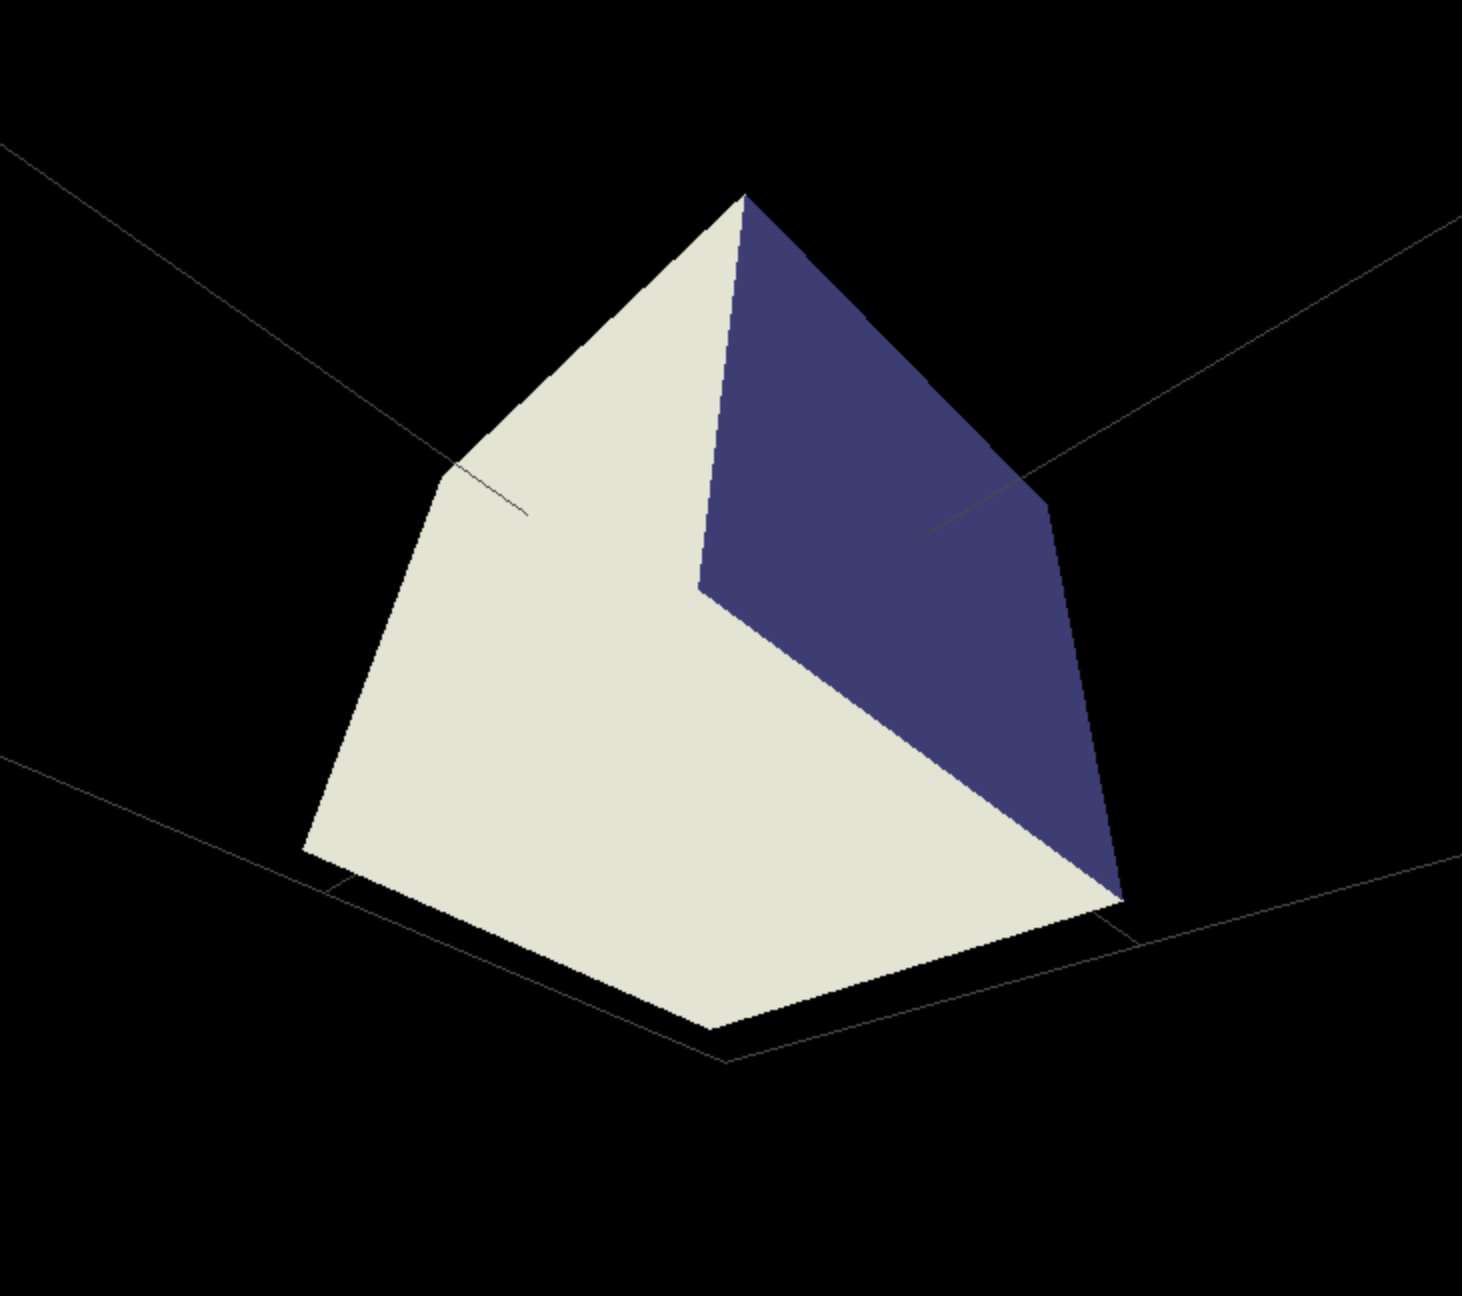
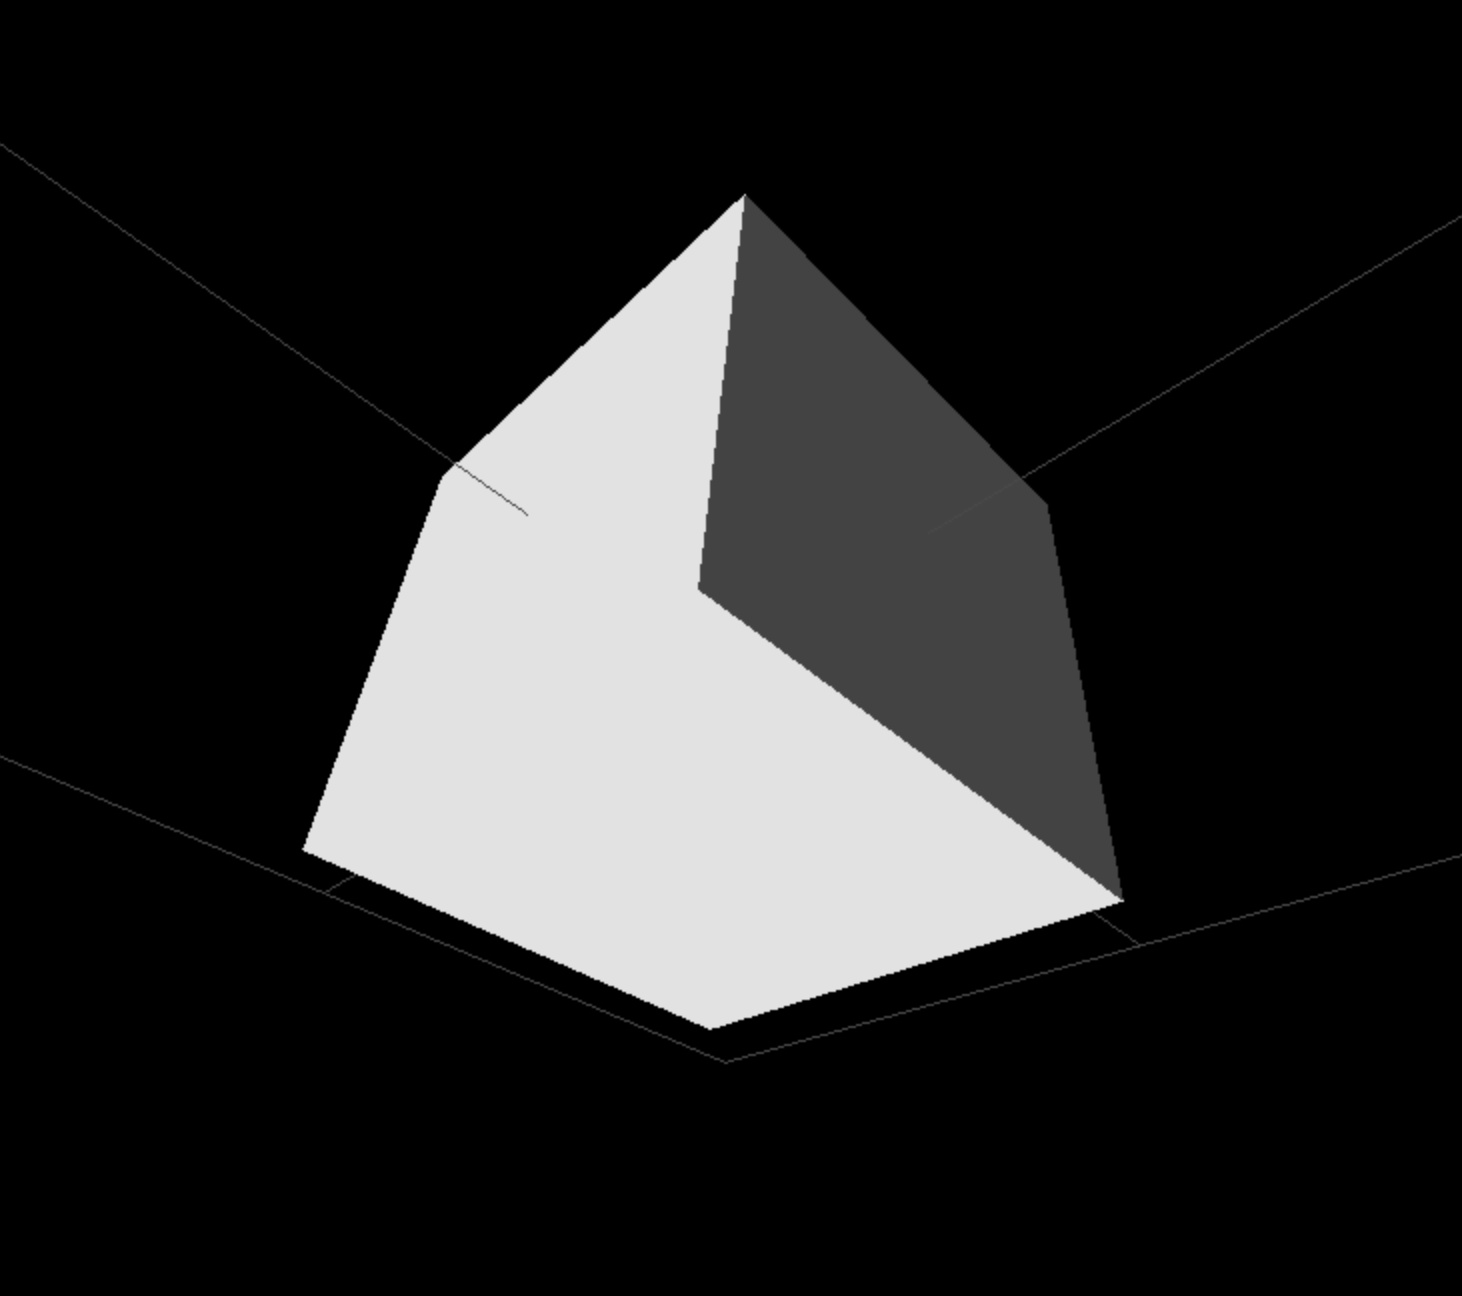
adding more geometric shapes

Changed region(s): [[0.4617, 0.1543, 0.7695, 0.7099]]

diff --git a/fx/halft.py b/fx/halft.py
@@ -1,0 +1,28 @@
+from PIL import Image, ImageDraw
+
+def halftone_pil(input_path, output_path, scale=10, angle=45):
+    # Load image and convert to grayscale
+    image = Image.open(input_path).convert('L')
+    width, height = image.size
+    
+    # Create a new image for the halftone result
+    halftone = Image.new('L', (width * scale, height * scale))
+    draw = ImageDraw.Draw(halftone)
+    
+    # Calculate dot size based on pixel brightness
+    for x in range(0, width, 8):
+        for y in range(0, height, 8):
+            brightness = 255 - image.getpixel((x, y))
+            radius = int(brightness / 255 * scale)
+            draw.ellipse((x * scale - radius, y * scale - radius,
+                         x * scale + radius, y * scale + radius), fill=255)
+    
+    # Rotate and crop if needed
+    if angle != 0:
+        halftone = halftone.rotate(angle, expand=1)
+    
+    halftone.save(output_path)
+    return halftone
+
+# Usage
+halftone_pil('img/2.jpg', 'img/3.jpg', scale=5, angle=45)

diff --git a/fx/black.py b/fx/black.py
@@ -1,0 +1,13 @@
+import numpy as np
+import matplotlib.pyplot as plt
+import matplotlib.image as mpimg
+
+# Load the image
+image = mpimg.imread('img/1.png')
+
+# Convert to grayscale using luminance formula (standard for color to grayscale)
+# 0.299 * R + 0.587 * G + 0.114 * B
+gray_image = np.dot(image[...,:3], [0.299, 0.587, 0.114])
+
+# Save the result
+plt.imsave('img/2.jpg', gray_image, cmap='gray')

diff --git a/fx/semi.py b/fx/semi.py
@@ -1,0 +1,10 @@
+import cv2
+
+# Load the image
+image = cv2.imread('img/1.png')
+
+# Convert to grayscale (semitone)
+gray_image = cv2.cvtColor(image, cv2.COLOR_BGR2GRAY)
+
+# Save the result
+cv2.imwrite('fx/1.jpg', gray_image)
